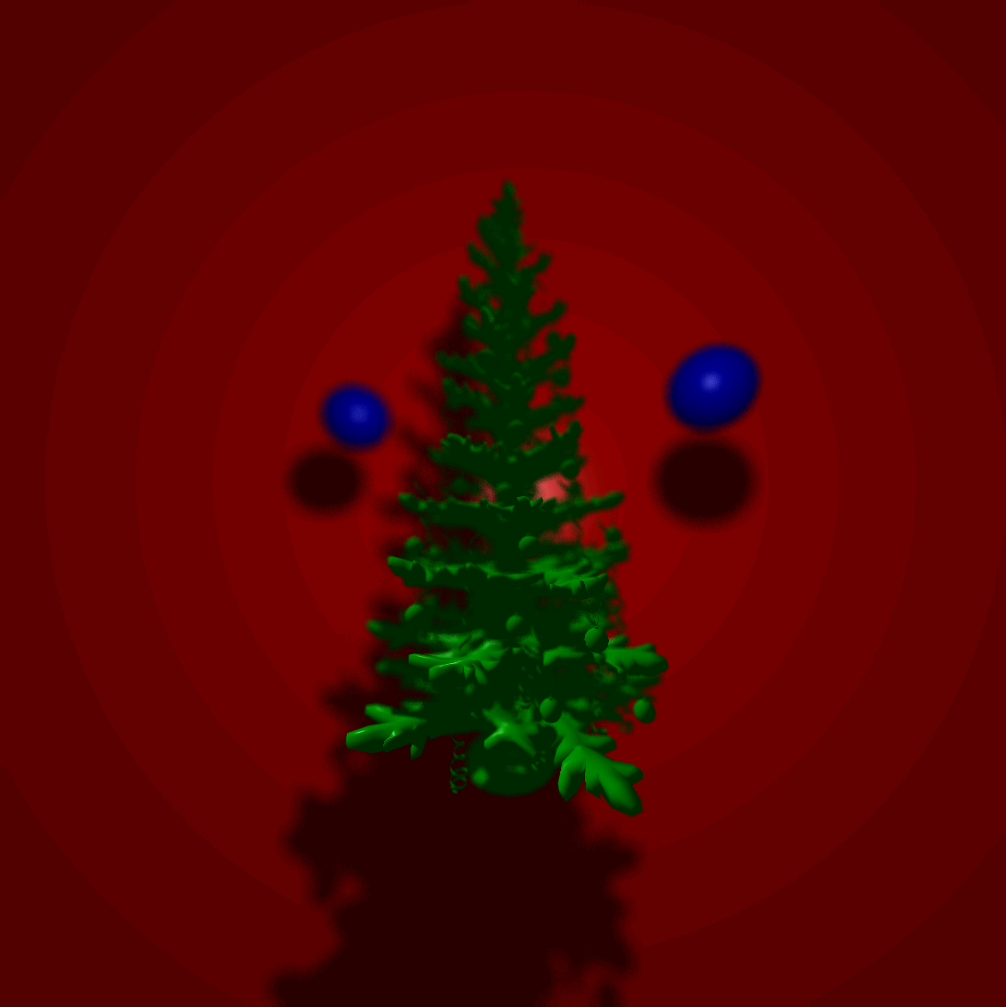
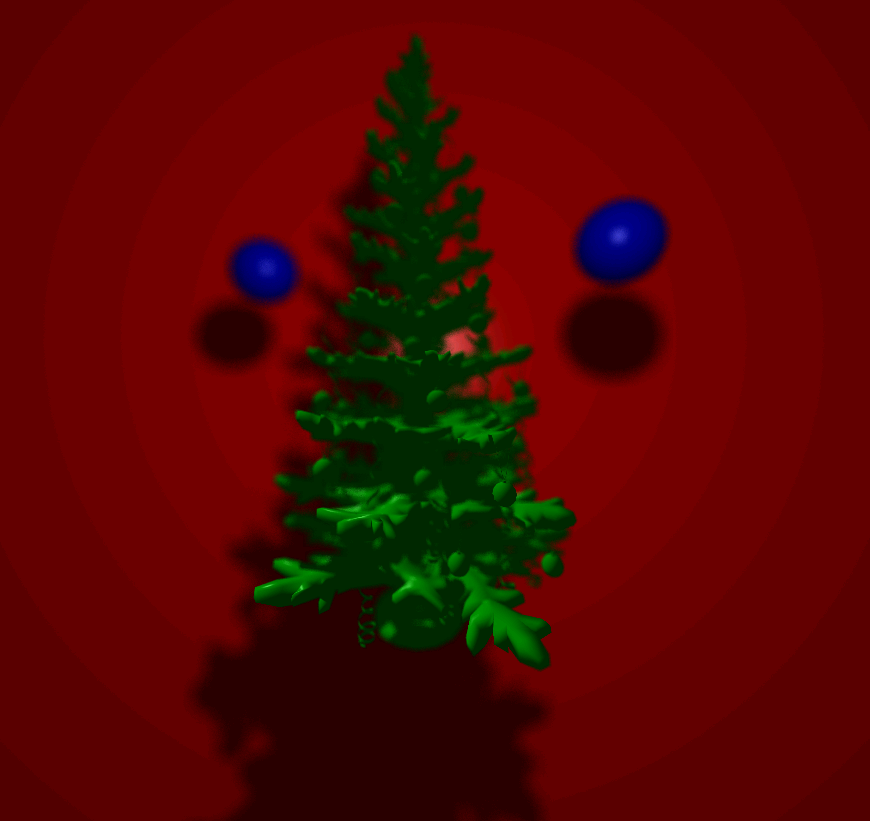
updated default scenes and readme

Changed region(s): [[0.2172, 0.0305, 0.7759, 1.0], [0.2483, 0.9744, 0.2793, 1.0]]

diff --git a/main.cpp b/main.cpp
@@ -8,6 +8,140 @@
 #include <iostream>
 #include "algebra.h"
 #include "view.h"
+QImage aligned_reflective_gallery(){
+    int width = 1000;
+    int height = 1000;
+    float viewing_dst = 2;
+
+    std::vector<vec3f> light_srcs;
+    vec3f l1 = vec3f(10,10,10);
+    vec3f l2 = vec3f(-10,10,10);
+    std::vector<float> light_intensities {0.3,0.5};
+    light_srcs.push_back(l1);
+    light_srcs.push_back(l2);
+    vec3f viewer_pos = vec3f(0,5,8);
+    vec3f w = vec3f(0,0.5,2);
+
+    mesh msh = mesh();
+    std::shared_ptr<checkerboard> floor = std::make_shared<checkerboard>(0, false);
+    msh.add_surface(floor);
+
+    // Parameters for Pyramids
+    float pyramid_base_width = 2.0f;
+    float pyramid_height = 6.0f;
+    float pyramid_depth = -12.0f; // Z-coordinate for the pyramid base
+    float pyramid_rotation = M_PI / 4; // Rotation angle in radians
+
+    // Rotation matrix for the pyramid
+    float cos_theta = cos(pyramid_rotation);
+    float sin_theta = sin(pyramid_rotation);
+
+    auto rotate_point = [cos_theta, sin_theta](vec3f point, vec3f origin) {
+        float x_new = cos_theta * (point.x - origin.x) - sin_theta * (point.z - origin.z) + origin.x;
+        float z_new = sin_theta * (point.x - origin.x) + cos_theta * (point.z - origin.z) + origin.z;
+        return vec3f(x_new, point.y, z_new);
+    };
+
+    vec3f origin = vec3f(0, 0, pyramid_depth);
+
+    // Reflective Spheres Around the Pyramid
+    int num_spheres = 5;
+    float radius = 8.0f; // Radius of the circle around the pyramid
+    for (int i = 0; i < num_spheres; ++i) {
+        float angle = 2 * M_PI * i / num_spheres;
+        float x = radius * cos(angle);
+        float z = radius * sin(angle) + pyramid_depth;
+        std::shared_ptr<sphere> sph = std::make_shared<sphere>(vec3f(x, pyramid_height/2, z), 1.5);
+        sph->specular = true;
+        sph->set_color(qRgb(255, 255, 255)); // Reflective spheres
+        msh.add_surface(sph);
+    }
+
+    // Upright Pyramid (with rotation and different colors)
+    std::shared_ptr<surface> tri1 = std::make_shared<triangle>(
+        rotate_point(vec3f(0, pyramid_height, pyramid_depth), origin),
+        rotate_point(vec3f(-pyramid_base_width / 2, 0, pyramid_depth - pyramid_base_width / 2), origin),
+        rotate_point(vec3f(pyramid_base_width / 2, 0, pyramid_depth - pyramid_base_width / 2), origin)
+        );
+    tri1->set_color(qRgb(255, 105, 180)); // Pink
+
+    std::shared_ptr<surface> tri2 = std::make_shared<triangle>(
+        rotate_point(vec3f(0, pyramid_height, pyramid_depth), origin),
+        rotate_point(vec3f(pyramid_base_width / 2, 0, pyramid_depth - pyramid_base_width / 2), origin),
+        rotate_point(vec3f(pyramid_base_width / 2, 0, pyramid_depth + pyramid_base_width / 2), origin)
+        );
+    tri2->set_color(qRgb(135, 206, 235)); // Sky Blue
+
+    std::shared_ptr<surface> tri3 = std::make_shared<triangle>(
+        rotate_point(vec3f(0, pyramid_height, pyramid_depth), origin),
+        rotate_point(vec3f(pyramid_base_width / 2, 0, pyramid_depth + pyramid_base_width / 2), origin),
+        rotate_point(vec3f(-pyramid_base_width / 2, 0, pyramid_depth + pyramid_base_width / 2), origin)
+        );
+    tri3->set_color(qRgb(255, 105, 180)); // Pink
+
+    std::shared_ptr<surface> tri4 = std::make_shared<triangle>(
+        rotate_point(vec3f(0, pyramid_height, pyramid_depth), origin),
+        rotate_point(vec3f(-pyramid_base_width / 2, 0, pyramid_depth + pyramid_base_width / 2), origin),
+        rotate_point(vec3f(-pyramid_base_width / 2, 0, pyramid_depth - pyramid_base_width / 2), origin)
+        );
+    tri4->set_color(qRgb(135, 206, 235)); // Sky Blue
+
+    msh.add_surface(tri1);
+    msh.add_surface(tri2);
+    msh.add_surface(tri3);
+    msh.add_surface(tri4);
+
+    // Inverted Pyramid (on top of the upright pyramid)
+    vec3f top_origin = vec3f(0, pyramid_height, pyramid_depth);
+
+    std::shared_ptr<surface> tri5 = std::make_shared<triangle>(
+        rotate_point(vec3f(0, 0, pyramid_depth), top_origin),
+        rotate_point(vec3f(-pyramid_base_width / 2, pyramid_height, pyramid_depth - pyramid_base_width / 2), top_origin),
+        rotate_point(vec3f(pyramid_base_width / 2, pyramid_height, pyramid_depth - pyramid_base_width / 2), top_origin)
+        );
+    tri5->set_color(qRgb(255, 105, 180)); // Pink
+
+    std::shared_ptr<surface> tri6 = std::make_shared<triangle>(
+        rotate_point(vec3f(0, 0, pyramid_depth), top_origin),
+        rotate_point(vec3f(pyramid_base_width / 2, pyramid_height, pyramid_depth - pyramid_base_width / 2), top_origin),
+        rotate_point(vec3f(pyramid_base_width / 2, pyramid_height, pyramid_depth + pyramid_base_width / 2), top_origin)
+        );
+    tri6->set_color(qRgb(135, 206, 235)); // Sky Blue
+
+    std::shared_ptr<surface> tri7 = std::make_shared<triangle>(
+        rotate_point(vec3f(0, 0, pyramid_depth), top_origin),
+        rotate_point(vec3f(pyramid_base_width / 2, pyramid_height, pyramid_depth + pyramid_base_width / 2), top_origin),
+        rotate_point(vec3f(-pyramid_base_width / 2, pyramid_height, pyramid_depth + pyramid_base_width / 2), top_origin)
+        );
+    tri7->set_color(qRgb(255, 105, 180)); // Pink
+
+    std::shared_ptr<surface> tri8 = std::make_shared<triangle>(
+        rotate_point(vec3f(0, 0, pyramid_depth), top_origin),
+        rotate_point(vec3f(-pyramid_base_width / 2, pyramid_height, pyramid_depth + pyramid_base_width / 2), top_origin),
+        rotate_point(vec3f(-pyramid_base_width / 2, pyramid_height, pyramid_depth - pyramid_base_width / 2), top_origin)
+        );
+    tri8->set_color(qRgb(135, 206, 235)); // Sky Blue
+
+    msh.add_surface(tri5);
+    msh.add_surface(tri6);
+    msh.add_surface(tri7);
+    msh.add_surface(tri8);
+
+    view v = view(width, height, viewer_pos, w, msh, viewing_dst, light_srcs, light_intensities);
+    v.samples_per_ray = 500;
+    v.aperture = 0.05;
+    v.focal_dist = 10;
+    v.shadows = true;
+    v.path_tracing = false; // Path tracing turned off
+    v.cos_weighted = true;
+    v.num_threads = 10;
+    v.next_event = true;
+    v.anti_alias = true;
+
+    QImage img = v.render();
+    return img;
+}
+
 
 QImage focal_scene(){
     int width = 1000;
@@ -54,7 +188,7 @@ QImage mirror_scene(){
     std::shared_ptr<surface> sph1 = std::make_shared<sphere>(vec3f(2,0.8,0), 0.8);
     std::shared_ptr<surface> sph2 = std::make_shared<sphere>(vec3f(0,2,-5), 2);
     std::shared_ptr<surface> sph3 = std::make_shared<sphere>(vec3f(0,1,0), 1);
-    std::shared_ptr<checkerboard> floor = std::make_shared<checkerboard>(0);
+    std::shared_ptr<checkerboard> floor = std::make_shared<checkerboard>(0, true);
     float h = 0.;
     std::shared_ptr<surface> tri = std::make_shared<triangle>(vec3f(-100,h,100), vec3f(100,h,100),vec3f(0,h,-100));
     tri->color = qRgb(200,200,200);
@@ -81,31 +215,24 @@ QImage mirror_scene(){
 }
 
 QImage view_mesh(){
-    int width = 500;
-    int height = 500;
+    int width = 1000;
+    int height = 1000;
     float viewing_dst = 0.68;
     //vec3d light_src = vec3d(3,8,-5);
     std::vector<vec3f> light_srcs;
     vec3f l1 = vec3f(10,100,100);
     vec3f l2 = vec3f(-10,100,100);
     std::vector<float> light_intensities {0.6,0.8};
-    vec3f viewer_pos = vec3f(0,100,120);
-    vec3f w = vec3f(0,0.2,1);
+    vec3f viewer_pos = vec3f(30,-10,115);
+    vec3f w = vec3f(0,0.25,1);
     light_srcs.push_back(l1);
     //light_srcs.push_back(l2);
     mesh msh = mesh();
-    msh.read_obj("treehq_tri.obj");
+    msh.read_obj("/Users/cali/workspace/simple_raytracer/xyzrgb_dragon.obj");
     std::shared_ptr<surface> floor1 = std::make_shared<triangle>(vec3f(11111,11111,-500), vec3f(-11111,11111,-500), vec3f(0,-11111,-500));
-    std::shared_ptr<surface> sph1 = std::make_shared<sphere>(vec3f(100,100,-50), 20);
-    sph1->set_color(qRgb(0,0,100));
-    std::shared_ptr<surface> sph2 = std::make_shared<sphere>(vec3f(-100,100,-100), 20);
-    sph2->set_color(qRgb(0,0,100));
-    floor1->set_color(qRgb(100,0,0));
-
+    floor1->set_color(qRgb(211,211,211));
     msh.add_surface(floor1);
-    msh.add_surface(sph1);
-    msh.add_surface(sph2);
-    msh.build_basic_tree(2, 50);
+    msh.build_fast_tree(2, 50);
     view v = view(width,height, viewer_pos, w, msh, viewing_dst, light_srcs, light_intensities);
     v.focal_dist = 120;
     QImage img = v.render();
@@ -181,10 +308,11 @@ int main(int argc, char *argv[])
     QApplication a(argc, argv);
     QPixmap image;
     std::chrono::steady_clock::time_point begin = std::chrono::steady_clock::now();
+    QImage img = view_mesh();
     //QImage img = focal_scene();
-    QImage img = cornell_box();
+    //QImage img = cornell_box();
     //QImage img = mirror_scene();
-    img.save("rendered.png");
+    img.save("./rendered.png");
     image = QPixmap::fromImage(img);
     std::chrono::steady_clock::time_point end = std::chrono::steady_clock::now();
     std::cout << "Time difference = " << std::chrono::duration_cast<std::chrono::milliseconds>(end - begin).count() << "[ms]" << std::endl;

diff --git a/geometry.cpp b/geometry.cpp
@@ -163,7 +163,7 @@ bool triangle::hit(ray r, float t0, float t1, hit_record &rec){
 };
 
 
-checkerboard::checkerboard(float height) : height(height){};
+checkerboard::checkerboard(float height, bool stripes) : height(height), stripes(stripes){};
 
 box checkerboard::bounding_box()
 {
@@ -188,12 +188,18 @@ bool checkerboard::hit(ray r, float t0, float t1, hit_record &rec)
         return false;
 
     vec3f sect_coords = r.origin + t_sect * r.dir;
-
-    if(std::fmod(std::abs(sect_coords.x) + std::abs(sect_coords.z), 2) < 1)
-    //if(std::fmod(sect_coords.x + sect_coords.z, 5) < 2.5)
-        color = qRgb(255,255,255);
-    else
-        color = qRgb(0,0,0);
+    if(stripes){
+        if(std::fmod(std::abs(sect_coords.x) + std::abs(sect_coords.z), 2) < 1)
+            color = qRgb(255,255,255);
+        else
+            color = qRgb(0,0,0);
+    }
+    else{
+        if (static_cast<int>(std::floor(sect_coords.x) + std::floor(sect_coords.z)) % 2 == 0)
+            color = qRgb(255,255,255);
+        else
+            color = qRgb(0,0,0);
+    }
     vec3f normal(0,1,0);
     rec.register_hit(normal, sect_coords , color, t_sect, specular, emittence);
     return true;

diff --git a/geometry.h b/geometry.h
@@ -62,8 +62,9 @@ public:
 class checkerboard : public surface {
 private:
     float height;
+    bool stripes = false;
 public:
-    checkerboard(float height);
+    checkerboard(float height, bool stripes);
     box bounding_box() override;
     virtual vec3f centroid() override;
     vec3f random_surface_pt() override;

diff --git a/util.cpp b/util.cpp
@@ -17,10 +17,6 @@ void hit_record::register_hit(vec3f normal, vec3f sect_coords, QRgb surface_colo
     this->emittence = emittence;
 }
 
-vec3f hit_record::brdf(float reciever_angle)
-{
-
-}
 
 
 
